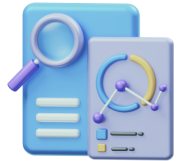
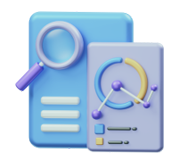
Changed top two sections

diff --git a/src/assets/css/style.css b/src/assets/css/style.css
@@ -667,26 +667,30 @@ html {
   }
   .style-circle-container {
     position: relative;
-    padding-top: 200px;
+    padding-top: 40px;
     max-width: 100%;
   }
   .style-circle {
     background-color: #4e58cd;
     background: linear-gradient(201.93deg, #4e58cd 13.09%, #97d2ff 88.9%);
-    height: 500px;
-    width: 500px;
-    position: relative;
+    height: 400px;
+    width: 400px;
+    position: absolute;
     border-radius: 50%;
-    float: right;
+    /* float: right; */
+    left: 61px;
   }
   .image-rocket {
     position: absolute;
     z-index: 2;
     width: 100%;
+    /* height: 459px;  */
+    /* left: -275px;  */
     left: -75px;
     top: -52px;
   }
   .image-investor {
+    /* margin-top: -9rem;  */
     position: absolute;
     width: 60%;
     z-index: 3;
@@ -695,6 +699,8 @@ html {
     left: 51px;
   }
   .image-marketer {
+    /* display: none; */
+    /* margin-top: -9rem;  */
     position: absolute;
     z-index: 3;
     width: 50%;
@@ -722,6 +728,12 @@ html {
   }
 }
 @media (max-width: 576px) {
+  .style-circle-container {
+    position: relative;
+    padding-top: 130px;
+    max-width: 100%;
+    margin-top: -60px;
+  }
   .money-bag-man-img {
     position: absolute;
     z-index: 7;
@@ -766,11 +778,6 @@ html {
   .custom-padding-10 {
     padding-top: 120px !important;
   }
-  .style-circle-container {
-    position: relative;
-    padding-top: 130px;
-    max-width: 100%;
-  }
   .style-circle {
     background-color: #4e58cd;
     background: linear-gradient(201.93deg, #4e58cd 13.09%, #97d2ff 88.9%);
@@ -784,6 +791,7 @@ html {
     position: absolute;
     z-index: 2;
     width: 100%;
+    
     left: -56px;
     top: -80px;
   }
@@ -795,6 +803,7 @@ html {
     right: 0;
   }
   .image-marketer {
+    
     position: absolute;
     z-index: 3;
     width: 55%;
@@ -2000,7 +2009,7 @@ button:disabled {
   padding: 60px 10px 30px 10px;
 }
 .time-taking-cards .top-img-container {
-  height: 170px;
+  /* height: 170px; */
   width: 100%;
   margin: 0 auto;
 }
@@ -2034,7 +2043,7 @@ button:disabled {
     padding: 20px 5px;
   }
   .time-taking-cards .top-img-container {
-    height: 100px;
+    /* height: 100px; */
     width: 100%;
     margin: 0 auto;
   }
@@ -2071,6 +2080,11 @@ button:disabled {
   {
     height: 50px;
   }
+  .style-circle-container
+  {
+    padding-top: 90px;
+    padding-bottom: 30px;
+  }
 }
 @media (max-width: 576px) {
   .time-taking-cards {
@@ -2079,7 +2093,7 @@ button:disabled {
     padding: 30px 10px;
   }
   .time-taking-cards .top-img-container {
-    height: 140px;
+    /* height: 140px; */
     width: 100%;
     margin: 0 auto;
   }
@@ -2701,16 +2715,15 @@ p.custom-desc-title a::before {
 
 @media (min-width: 577px) and (max-width: 767px) {
   .time-taking-cards .top-img-container {
-    padding-bottom: 80px;
-
+    padding-bottom: 30px;
     height: 100%;
   }
   .time-taking-cards .top-img-container img {
-    width: 20%;
-    padding-bottom: 40px;
+    width: 30%;
+    padding-bottom: 5px;
   }
   .time-taking-cards .card-title {
-    padding-top: 40px;
+    padding-top: 10px;
   }
 }
 

diff --git a/src/app/modules/static/components/landing/landing.component.html b/src/app/modules/static/components/landing/landing.component.html
@@ -98,7 +98,7 @@
           <div class="card time-taking-cards">
             <div class="top-img-container text-center">
               <img
-                class="card-img-top img-fluid"
+                class="img-fluid"
                 src="assets/images/nft-blockchain-3.png"
                 alt="Card image"
               />
@@ -123,7 +123,7 @@
           <div class="card time-taking-cards">
             <div class="top-img-container text-center">
               <img
-                class="card-img-top img-fluid"
+                class="img-fluid"
                 src="assets/images/development-high.png"
                 alt="Card image"
               />
@@ -145,7 +145,7 @@
           <div class="card time-taking-cards">
             <div class="top-img-container text-center">
               <img
-                class="card-img-top img-fluid"
+                class="img-fluid"
                 src="assets/images/analytics-1.png"
                 alt="Card image"
               />
